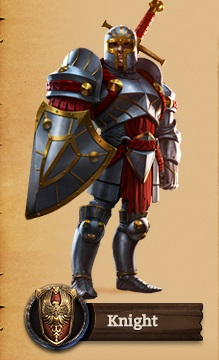
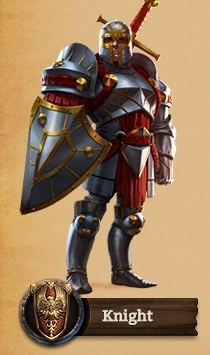
sad

diff --git a/aloldal1.html b/aloldal1.html
@@ -25,9 +25,9 @@
 	<p>Kingsroadban 3 osztály közül lehet választani: harcos, íjász, varázsló.
 		A játék során ezek között könnyen lehet váltogatni.</p>
 		
-	<img src="harcos.png" width="40%" height="30%">
-	<img src="íjász.png" width="40%" height="30%">
-	<img src="varázsló.png" width="40%" height="30%">
+	<img id = "harcoskep" src="harcos.jpg">
+	<img id="íjászkep" src="íjász.jpg">
+	<img id = "varázslókep" src="varázsló.jpg">
 
 </div>
 

diff --git a/aloldal1.css b/aloldal1.css
@@ -51,4 +51,22 @@ a{
 
 h1{
 	text-align:center;
+	margin-top: 0;
+	padding: 10px;
+}
+
+p{
+	border-left: 10px;
+}
+
+#harcoskep{
+	margin-left: 100px;
+}
+
+#íjászkep{
+	margin-left: 100px;
+}
+
+#varázslókep{
+	margin-left: 100px;
 }
